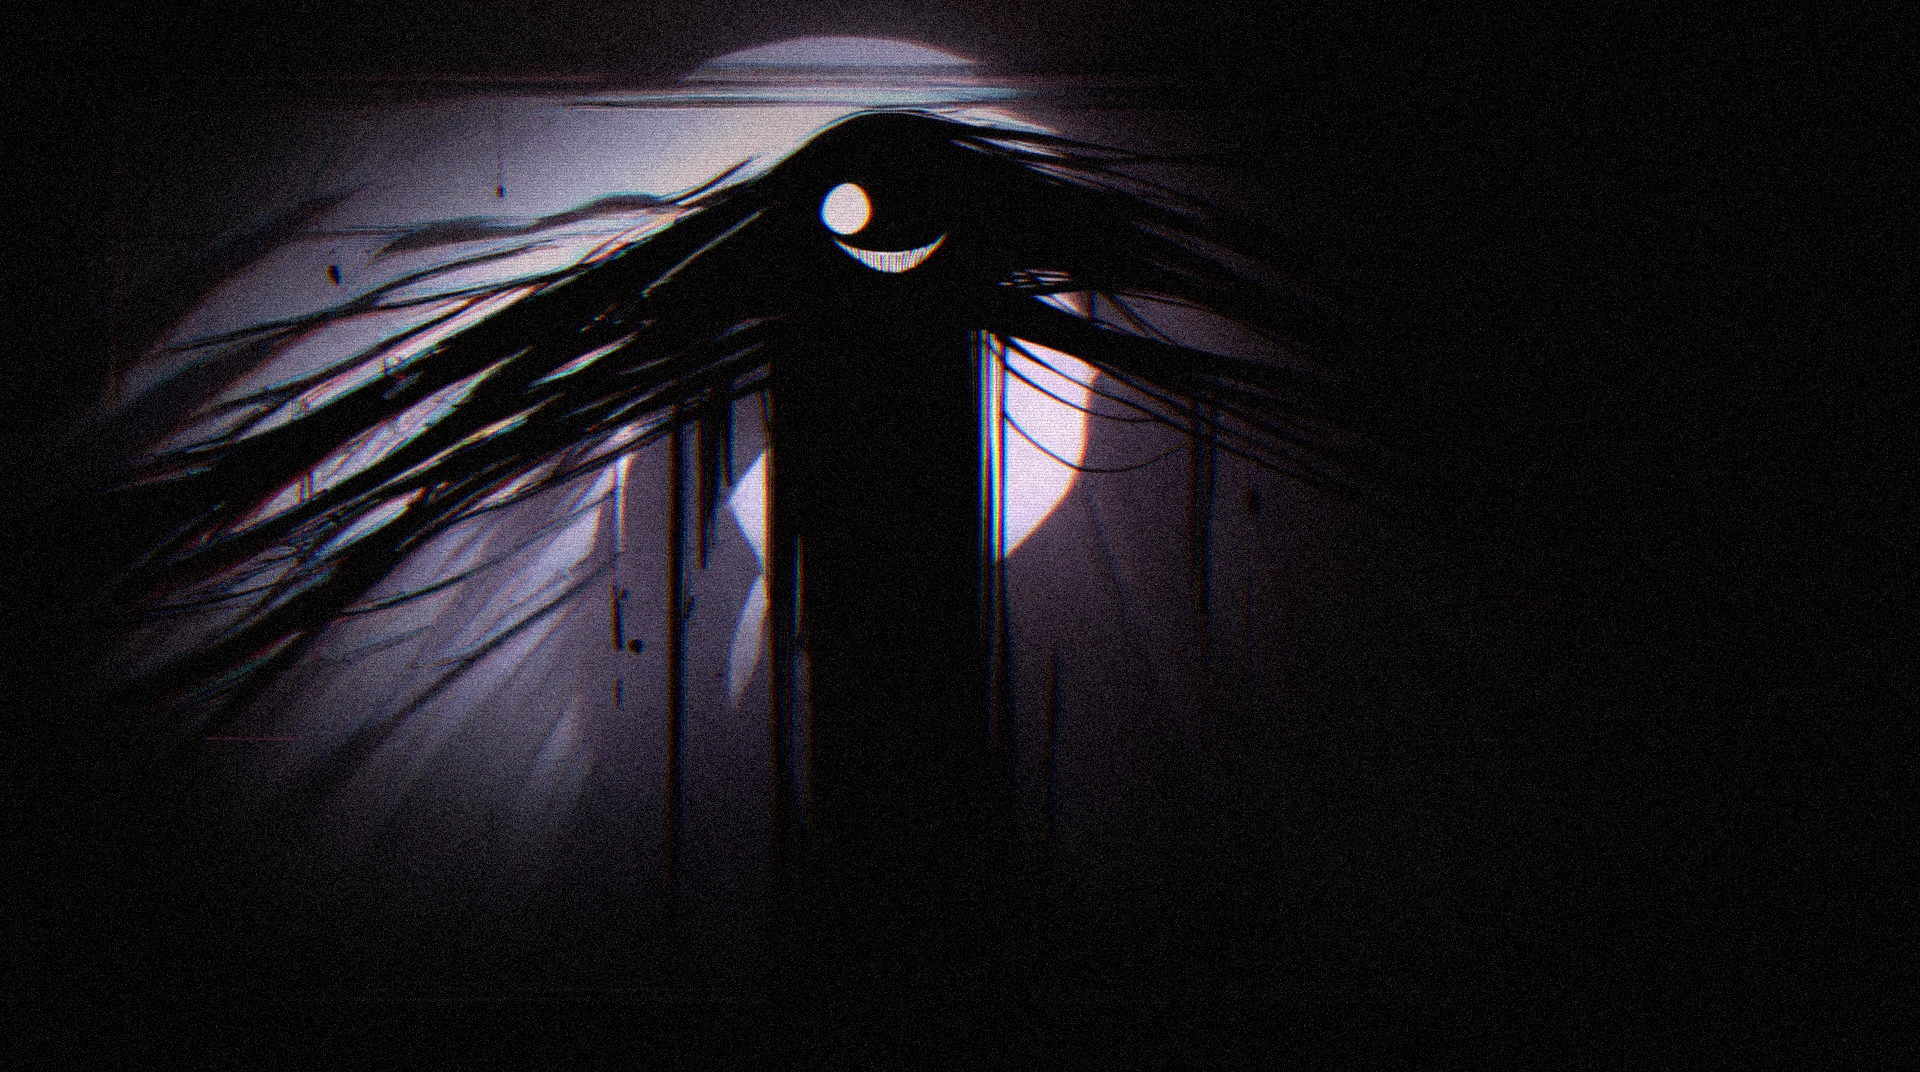
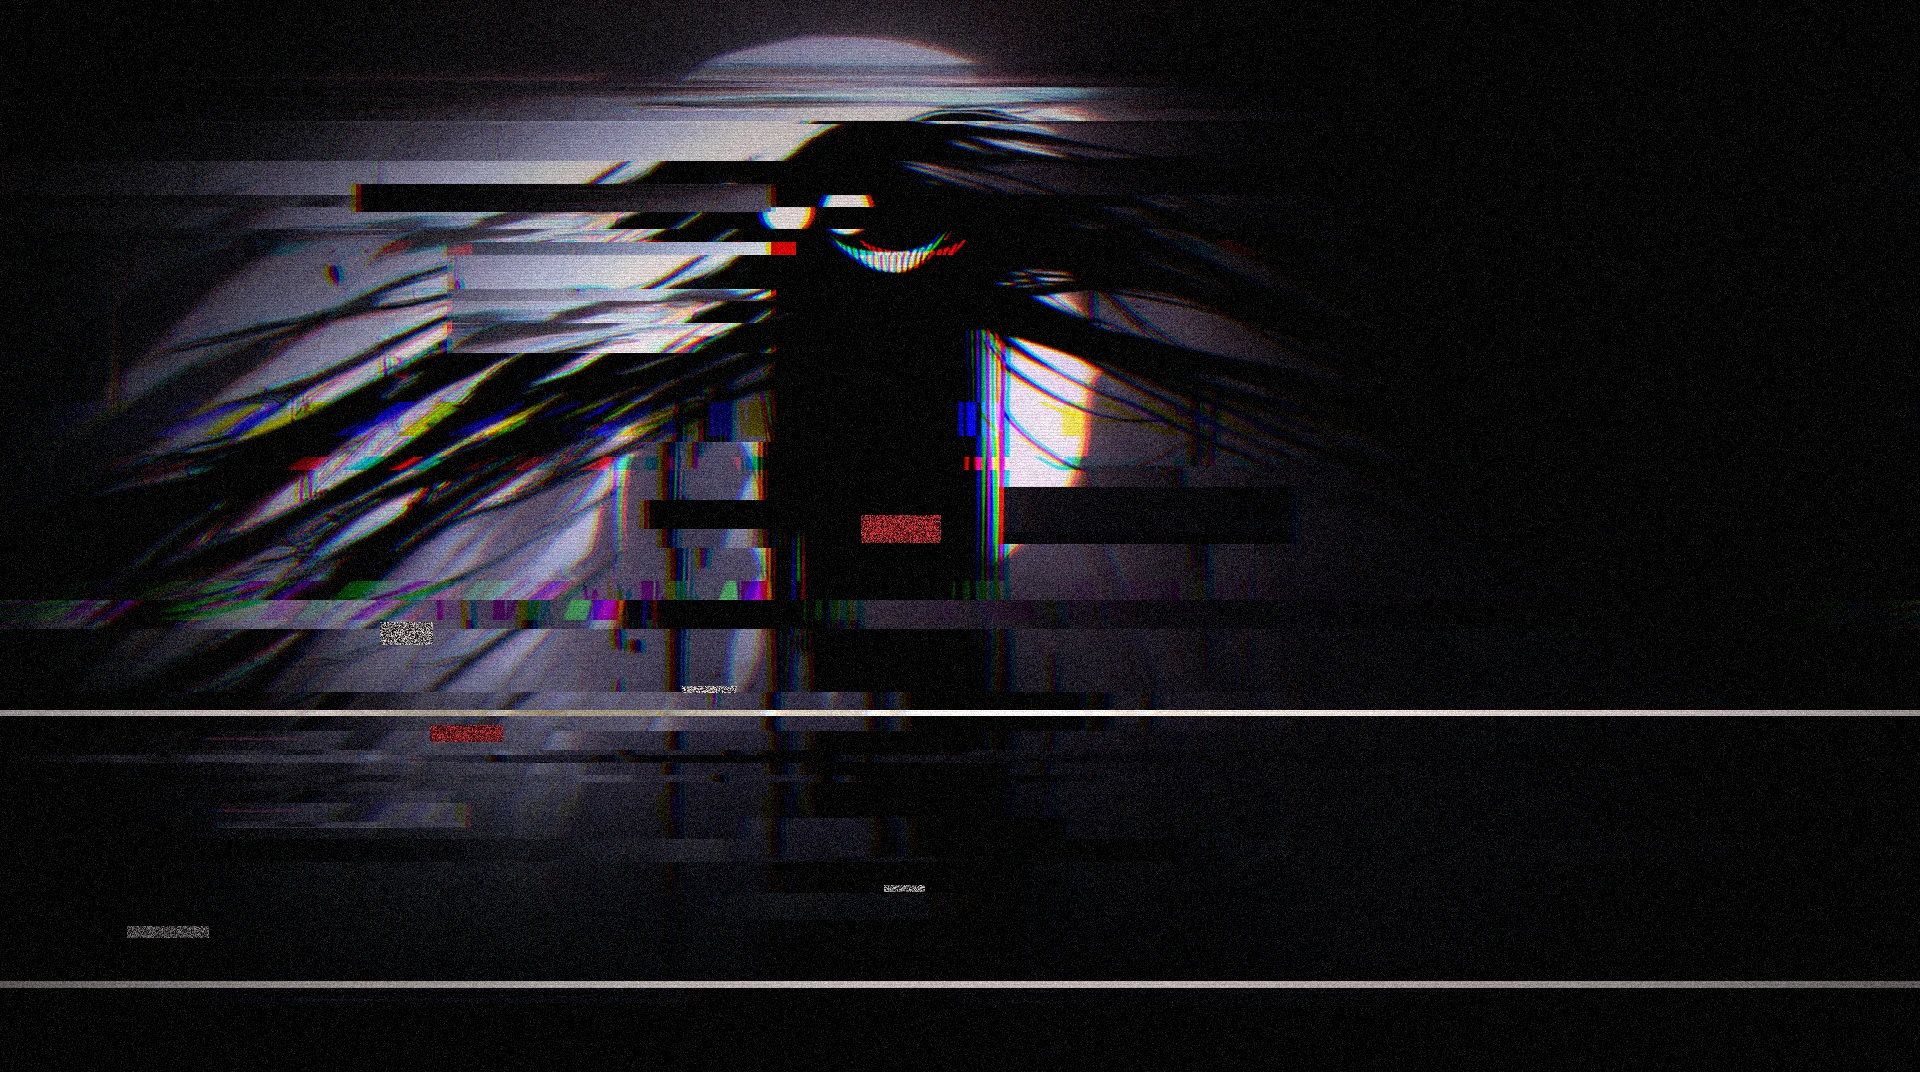
2.3.0: Junji Ito-style nurse/Hina horror CGs, DDLC-style glitch grade, stuttering CG animation

Changed region(s): [[0.0, 0.0, 1.0, 0.9235]]

diff --git a/styles/game.css b/styles/game.css
@@ -1261,3 +1261,16 @@ body.inverted, body.inverted * { cursor: none !important; }
 .behind.slam .behind-hint { display: none; }
 .behind.out { animation: fadeout .2s ease both; }
 @keyframes behindSlam { from { transform: scale(1.5); filter: brightness(3) contrast(1.6); } to { transform: scale(1.06); filter: brightness(1) contrast(1.3); } }
+
+/* 2.3: horror CGs stutter. Hard steps, never smooth: it should look like the picture is failing, not animating. */
+.cg-img.glitchy, .scare, .behind.slam .behind-strip > div:last-child { animation-timing-function: steps(1); }
+.cg-img.glitchy { animation: cgFail 3.2s steps(1) infinite; }
+@keyframes cgFail {
+  0%, 12%, 20%, 47%, 55%, 83%, 100% { transform: none; filter: none; clip-path: none; }
+  13% { transform: translate(-1.2%, 0) scale(1.01); filter: hue-rotate(-25deg) contrast(1.4); clip-path: inset(0 0 63% 0); }
+  14% { transform: translate(1.6%, 0); filter: saturate(3) brightness(1.3); clip-path: inset(41% 0 22% 0); }
+  15% { transform: translate(0, .6%) skewX(-2deg); filter: invert(1) hue-rotate(160deg); clip-path: none; }
+  48% { transform: translate(.8%, 0); filter: contrast(1.8) brightness(.7); clip-path: inset(18% 0 55% 0); }
+  49% { transform: translate(-2%, 0) scaleY(1.03); filter: saturate(0) brightness(1.6); clip-path: none; }
+  84% { transform: translate(0, -.8%); filter: hue-rotate(90deg) contrast(1.5); clip-path: inset(70% 0 0 0); }
+}

diff --git a/src/meta.js b/src/meta.js
@@ -119,7 +119,7 @@ export class Meta {
     this.game.v.cg = id || null;
     if (!id) { layer.classList.remove("in"); setTimeout(() => { if (!this.game.v.cg) layer.innerHTML = ""; }, 700); return; }
     const img = document.createElement("div");
-    img.className = "cg-img" + (this._graphic(id) && !this.goreOn ? " withheld" : "");
+    img.className = "cg-img" + (this._graphic(id) && !this.goreOn ? " withheld" : "") + (this._graphic(id) ? " glitchy" : "");
     img.style.backgroundImage = `url(assets/cg/${id}.webp)`;
     if (!fade) img.style.transition = "none";
     // The darkroom: the rope creaks while it's on screen.

diff --git a/tools/horror_grade.py b/tools/horror_grade.py
@@ -1,0 +1,43 @@
+"""Glitch + dark grade for the 'h_' horror CGs (DDLC-style corruption: sliced rows, displaced blocks, RGB tearing, dead bars).
+usage: python tools/horror_grade.py <name> [...]   (reads ../_comfy/orig_cg/<name>.webp, writes assets/cg/<name>.webp)"""
+import sys, numpy as np
+from pathlib import Path
+from PIL import Image, ImageFilter, ImageEnhance
+ROOT = Path(__file__).resolve().parent.parent
+def grade(src, dst, seed):
+    rng = np.random.default_rng(seed)
+    im = Image.open(src).convert("RGB").filter(ImageFilter.GaussianBlur(0.5))
+    im = ImageEnhance.Color(im).enhance(0.6)
+    a = np.asarray(im, dtype=np.float32) / 255
+    H, W, _ = a.shape
+    a = np.clip((a - 0.05) * 1.3, 0, 1) ** 1.25 * 0.95
+    # sliced rows: bands of rows shoved sideways
+    for _ in range(int(rng.integers(9, 16))):
+        y = int(rng.integers(0, H - 20)); h = int(rng.integers(4, 46)); dx = int(rng.integers(-180, 180))
+        a[y:y+h] = np.roll(a[y:y+h], dx, axis=1)
+    # displaced blocks (datamosh): rectangles copied from elsewhere
+    for _ in range(int(rng.integers(5, 10))):
+        bw, bh = int(rng.integers(80, 420)), int(rng.integers(20, 120))
+        x, y = int(rng.integers(0, W - bw)), int(rng.integers(0, H - bh))
+        x2, y2 = int(np.clip(x + rng.integers(-300, 300), 0, W - bw)), int(np.clip(y + rng.integers(-120, 120), 0, H - bh))
+        a[y:y+bh, x:x+bw] = a[y2:y2+bh, x2:x2+bw]
+    # RGB channel tearing: each channel shifted per band
+    for _ in range(int(rng.integers(6, 12))):
+        y = int(rng.integers(0, H - 30)); h = int(rng.integers(6, 60)); c = int(rng.integers(0, 3))
+        a[y:y+h, :, c] = np.roll(a[y:y+h, :, c], int(rng.integers(-40, 40)), axis=1)
+    a = np.stack([np.roll(a[:, :, 0], 5, 1), a[:, :, 1], np.roll(a[:, :, 2], -5, 1)], 2)
+    # dead bars: thin inverted / blown-out strips and a few static blocks
+    for _ in range(int(rng.integers(2, 5))):
+        y = int(rng.integers(0, H - 8)); h = int(rng.integers(2, 9)); a[y:y+h] = 1 - a[y:y+h]
+    for _ in range(int(rng.integers(6, 14))):
+        bw, bh = int(rng.integers(12, 90)), int(rng.integers(6, 30)); x, y = int(rng.integers(0, W - bw)), int(rng.integers(0, H - bh))
+        a[y:y+bh, x:x+bw] = rng.random((bh, bw, 1)) * np.array([1.0, 0.25, 0.3]) if rng.random() < .5 else rng.random((bh, bw, 1))
+    a = a * (1 - 0.08 * ((np.arange(H) % 3) == 0)[:, None, None])
+    yy, xx = np.mgrid[0:H, 0:W]; d = np.sqrt(((xx - W / 2) / (W / 2)) ** 2 + ((yy - H / 2) / (H / 2)) ** 2)
+    a = a * np.clip(1.1 - 0.5 * d ** 1.6, 0.2, 1)[:, :, None]
+    a[:, :, 0] = np.clip(a[:, :, 0] * 1.06, 0, 1)
+    a = np.clip(a + rng.normal(0, 0.05, (H, W, 1)), 0, 1)
+    Image.fromarray((a * 255).astype(np.uint8)).save(dst, quality=90)
+if __name__ == "__main__":
+    for i, n in enumerate(sys.argv[1:]):
+        grade(ROOT.parent / "_comfy" / "orig_cg" / f"{n}.webp", ROOT / "assets" / "cg" / f"{n}.webp", 100 + i)
